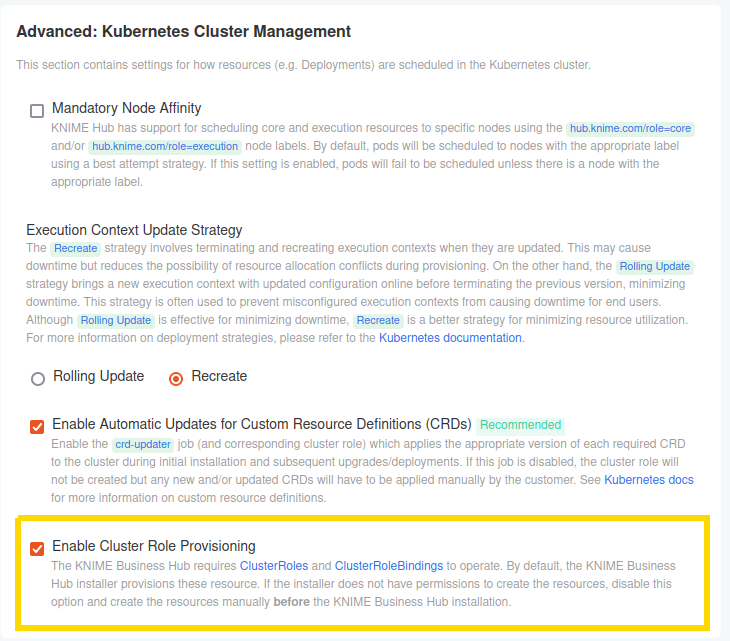
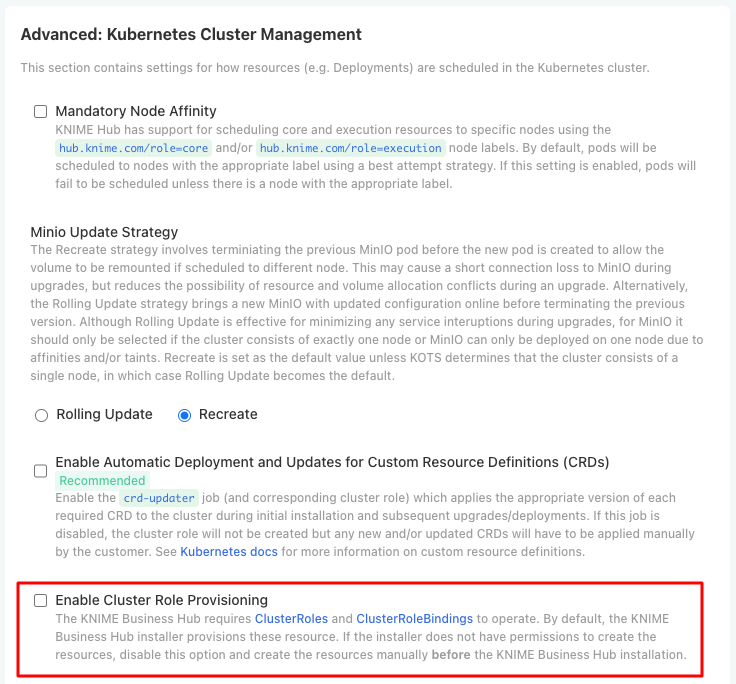
Updating istio, minimal-rbac and clusterroles section for hub 1.18.0.

diff --git a/security/minimal-rbac/README.md b/security/minimal-rbac/README.md
@@ -26,10 +26,9 @@ The majority of ClusterRoles and ClusterRoleBindigs have already been eliminated
 
 Due to these dependencies, installation with minimal RBAC mode enabled can only succeed if the following prerequisites are <u>fulfilled</u>:
 
-1.  [Customer installs CustomResoureDefinitions.](https://bitbucket.org/KNIME/knime-business-hub-public/src/main/crds/)
-2.  [Customer installs ingress-nginx and creates necessary IngressRules.](https://bitbucket.org/KNIME/knime-business-hub-public/src/main/networking/ingress-nginx/)
-3.  [Customer installs istio.](https://bitbucket.org/KNIME/knime-business-hub-public/src/main/networking/istio/)
-4.  [Customer applies necessary ClusterRoles and ClusterRoleBindings.](https://bitbucket.org/KNIME/knime-business-hub-public/src/main/security/clusterroles/)
+1.  [Customer installs CustomResoureDefinitions.](https://github.com/knime/knime-business-hub-public/tree/main/crds)
+2.  [Customer installs istio.](https://github.com/knime/knime-business-hub-public/tree/main/networking/istio)
+3.  [Customer applies necessary ClusterRoles and ClusterRoleBindings.](https://github.com/knime/knime-business-hub-public/tree/main/security/clusterroles)
 
 ## 3. Installing knime-hub
 
@@ -37,10 +36,7 @@ When installing knime-hub into and enviroment that is running in namespace-scope
 
 1. **Enable** the `View Advanced Settings` option in the Global section to display advanced configuration options.
     ![global-advanced-option](images/1_Global_Advanced_Options.png)
-2.  Set the Ingress Controller Configuration to the `Provided by the cluster` option. **Enable** the `Show Advanced Istio Configuration` and **disable** the `Enable Istio` option in the Networking: Istio section.
+2. **Enable** the `Show Advanced Istio Configuration` and **disable** the `Enable Istio` option in the Networking: Istio section.
     ![networking](images/2_Networking.png)
-3.  In the Advanced: Kubernetes Cluster Management section **disable** `Enable Automatic Deployment and Updates for Custom Resource Definitions (CRDs)` and `Enable Cluster Role Provisioning` options.
-
-    > Leave the `Add istio injection label to hub namespace` enabled or disable it if the condition applies.
-
+3.  In the Advanced: Kubernetes Cluster Management section **disable** both `Enable Automatic Deployment and Updates for Custom Resource Definitions (CRDs)` and `Enable Cluster Role Provisioning` options.
     ![advanced-kubernetes-cluster-management](images/3_Advanced_Kubernetes_Cluster_Management.png)

diff --git a/networking/istio/README.md b/networking/istio/README.md
@@ -9,8 +9,8 @@ The commands below are a working example of installing Istio based on the provid
 Install `istioctl` cli tool:
 
 ```sh
-curl -L https://istio.io/downloadIstio | ISTIO_VERSION=1.24.2 TARGET_ARCH=x86_64 sh -
-cd istio-1.24.2/
+curl -L https://istio.io/downloadIstio | ISTIO_VERSION=1.28.3 TARGET_ARCH=x86_64 sh -
+cd istio-1.28.3/
 export PATH=$PWD/bin:$PATH
 ```
 
@@ -32,6 +32,12 @@ istioctl install -f istio-config.yaml --verify
 This will install and verify the Istio service mesh install into the `istio-system` namespace.
 
 Additionally, some EnvoyFilters can be found in `networking/istio/envoyfilter/` which are recommended to be deployed after installing istio, to enable http compression in istio or more user friendly error messages. You may need to update the namespace for each EnvoyFilter before deploying.
+
+## Gateway example
+
+By default the deployment includes an Istio Gateway that uses the correct DNS names and basic TLS configuration. If you need a custom Gateway instead, disable the default one either via Replicated config or with ArgoCD values overrides.
+
+[example-gateway.yaml](example-gateway.yaml) is an example Istio Gateway for KNIME Business Hub. Before applying it, set the gateway metadata namespace to your Hub namespace and replace the example hosts (`hub.example.com`, `apps.example.com`, etc.) with your actual hostnames. If TLS is terminated at the gateway instead of the load balancer, uncomment and configure the TLS section for port 443.
 
 ## Openshift
 

diff --git a/security/clusterroles/README.md b/security/clusterroles/README.md
@@ -1,8 +1,8 @@
 # Manual Cluster Role Provisioning
 
-KNIME Business Hub requires certain Kubernetes [ClusterRole](https://kubernetes.io/docs/reference/access-authn-authz/rbac/#role-and-clusterrole) and and [ClusterRoleBinding](https://kubernetes.io/docs/reference/access-authn-authz/rbac/#rolebinding-and-clusterrolebinding) resources to operate. By default, the Hub installer creates these resources. If the installer does not have permission to create them, they need to be provisioned manually by a privileged user **before the KNIME Business Hub installation** via
+KNIME Business Hub requires certain Kubernetes [ClusterRole](https://kubernetes.io/docs/reference/access-authn-authz/rbac/#role-and-clusterrole) and and [ClusterRoleBinding](https://kubernetes.io/docs/reference/access-authn-authz/rbac/#rolebinding-and-clusterrolebinding) resources to operate. By default, the Hub installer creates these resources. If the installer does not have permission to create them, they need to be provisioned manually by a privileged user **before the KNIME Business Hub installation** via:
 ```
-kubectl apply -f https://bitbucket.org/KNIME/knime-business-hub-public/raw/main/security/clusterroles/clusterroles.yaml
+kubectl apply -f https://raw.githubusercontent.com/knime/knime-business-hub-public/updating-network-and-rbac-guide-hub-18/security/clusterroles/clusterroles.yaml
 ```
 
 Make sure to disable the ClusterRole provisioning in the advanced settings of the installer.
